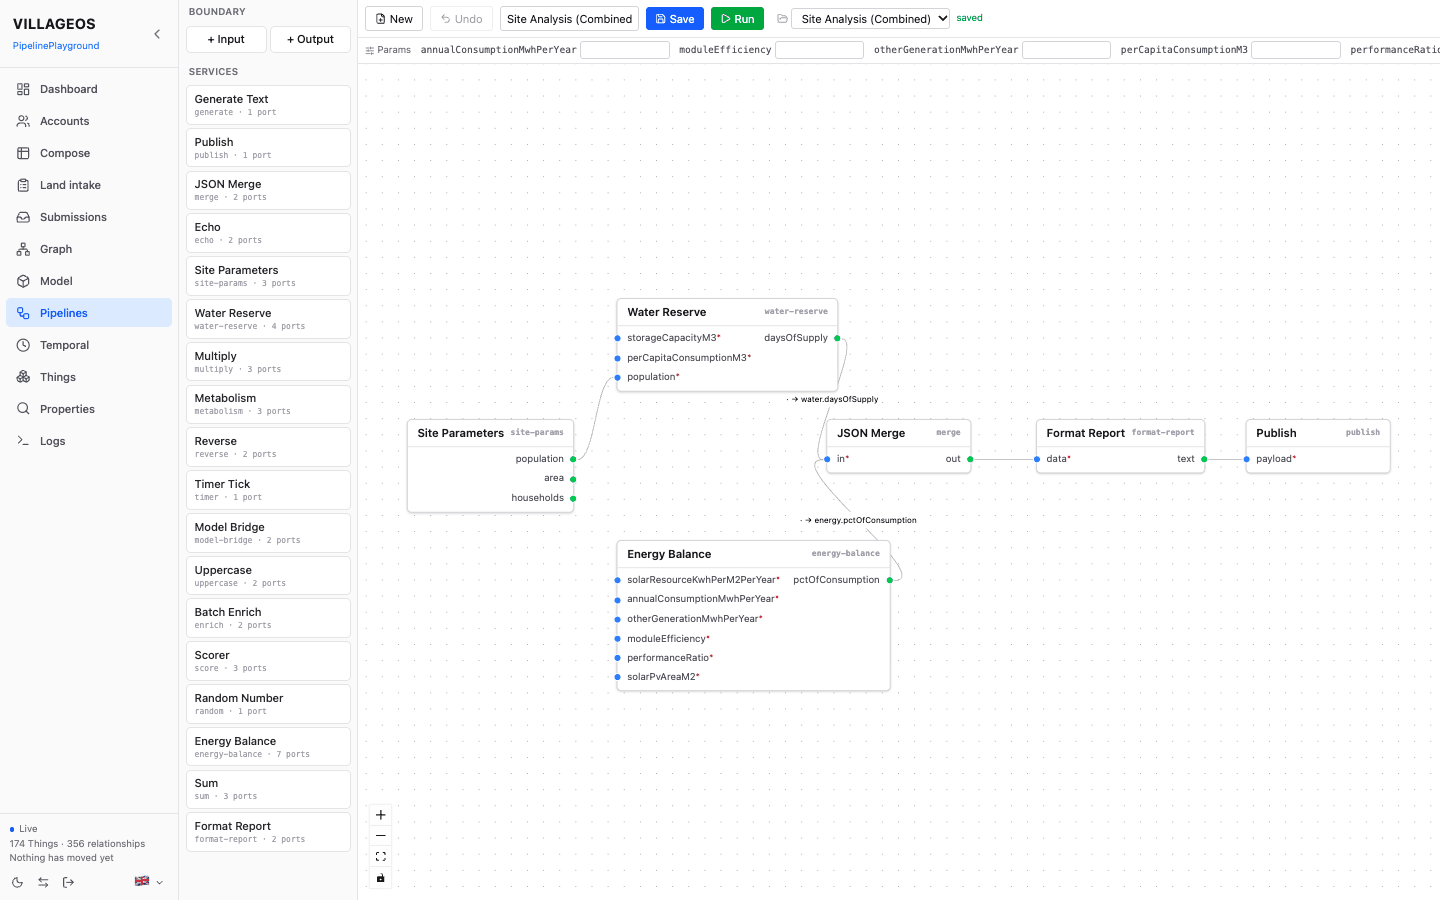
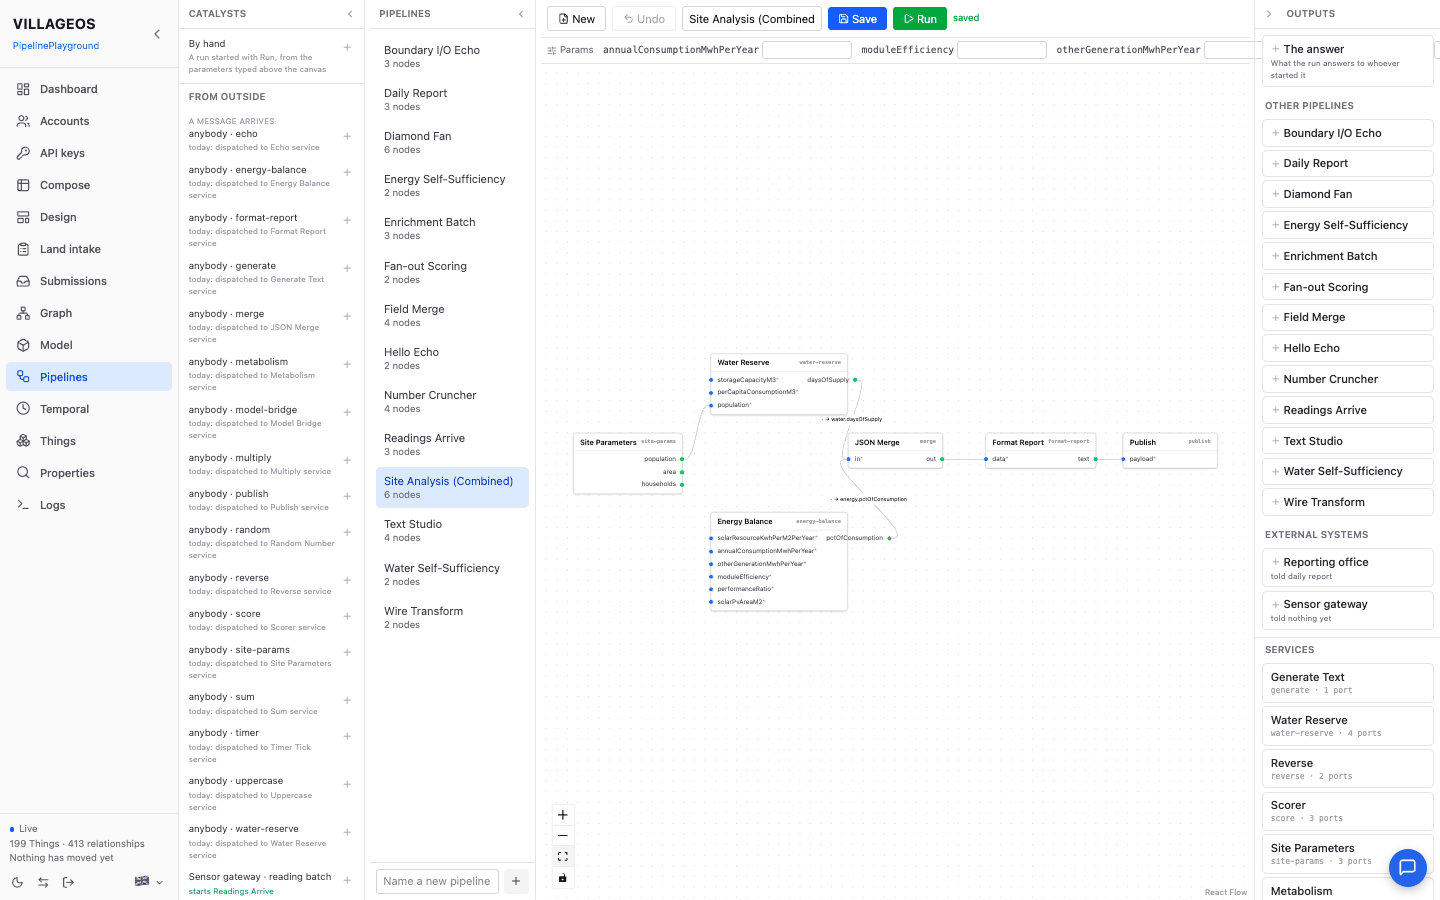
The Field Guide's Pipelines, sign-in and API keys pictures show the console as it is (#7212)
The Pipelines page is pictured drawn from its catalysts, roster, outputs and
services with a parameter-bound pipeline open; the sign-in page carries the new
mark, the theme switch and the language; and the API keys page has a picture
beside the Accounts page's, showing a key in use, one revoked, one confined and
expiring, and the key an issue answers with once. The roster stands beside the
catalysts, not beneath them, and the sign-in pages follow the theme.

diff --git a/docs/FIELD_GUIDE.md b/docs/FIELD_GUIDE.md
@@ -963,7 +963,7 @@ The **Pipelines** page in the console is the editor.
 - **The catalysts**, in the rail on the left, are everything in the model that sets a run off,
   listed by kind — a state a Thing enters, a kind of message an external system sends, a request —
   each saying what it starts or what happens to it today. Clicking one places a **start node**
-  standing for it; *By hand* places a start whose ports are filled from the run's parameters. Beneath
+  standing for it; *By hand* places a start whose ports are filled from the run's parameters. Beside
   the catalysts the **roster** lists the model's pipelines; one opens from it, and the first opens on
   arrival.
 - **The outputs**, in the rail on the right, offer the answer, the other pipelines and the external
@@ -1070,9 +1070,10 @@ Open `http://localhost:5173`. Sign in as `admin` with the password the server wr
 `VOS_ADMIN_PASSWORD` held then. There is no default password. A developer may put a key in
 `VITE_API_KEY` in a local settings file for automatic sign-in.
 
-![The sign-in form: username, password and the ReGen mark above them](assets/trellis-sign-in.png)
+![The sign-in form: username, password and the ReGen mark above them, with the theme switch and the language in the corner](assets/trellis-sign-in.png)
 
-The sign-in and password pages have one look whichever theme the rest of the console is in. With
+The sign-in and password pages carry the theme switch and the language in their corner, and follow
+the theme the rest of the console is in. With
 several models loaded, they are offered by name after sign-in; an account enters only the models it
 has been granted, and an administrator every one (chapter 54).
 
@@ -1391,6 +1392,8 @@ own. An account holds one role and enters only the models it is granted; an admi
 model and needs no grant. Nothing on the page acts on the administrator's own account. The same acts
 are the `user` commands in Taproot (chapter 68), through the same route, so the two say and refuse the
 same things.
+
+![The API keys page: every key with its role, the model it may enter, its fingerprint, when it expires and whether it is in use or revoked; the form that issues one, showing the key it just issued once; and the keys in use to revoke](assets/trellis-api-keys.png)
 
 The **API keys** page lists every key with whether it is in use, revoked or expired. **Issue a key**
 takes a name, a role, optionally the model the key is confined to, and optionally the days until it

diff --git a/docs/PIPELINE_PLAYGROUND.md b/docs/PIPELINE_PLAYGROUND.md
@@ -23,7 +23,7 @@ Open the GUI and click **Switch Model** in the sidebar footer to open the seed p
 seed and re-scopes your session to it.
 
 Now click **Pipelines** in the sidebar. On the left you'll see the **catalysts** — everything that sets a run
-off — and beneath them the **roster** of the model's pipelines, the example DAGs among them; the first opens
+off — and beside them the **roster** of the model's pipelines, the example DAGs among them; the first opens
 on arrival. On the right are the **outputs** and, under them, the **services**.
 
 ## The Pipelines page in 60 seconds
@@ -31,7 +31,7 @@ on arrival. On the right are the **outputs** and, under them, the **services**.
 - **Catalysts (left)** — what starts a run, by kind: a state a Thing enters, a kind of message an external
   system sends, a request. Click one to place a start node standing for it; **By hand** places a start
   filled from the run's parameters.
-- **Roster (left, beneath)** — the model's pipelines. Click one to open it.
+- **Roster (left, beside the catalysts)** — the model's pipelines. Click one to open it.
 - **Outputs (right)** — the answer, the other pipelines and the external systems. Click one to place an end
   node.
 - **Services (right, beneath)** — each entry is a service you can drop as a node. Click one to add it to the
